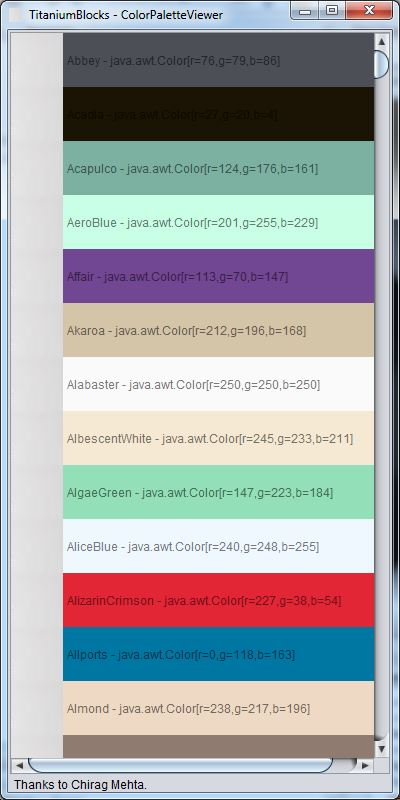
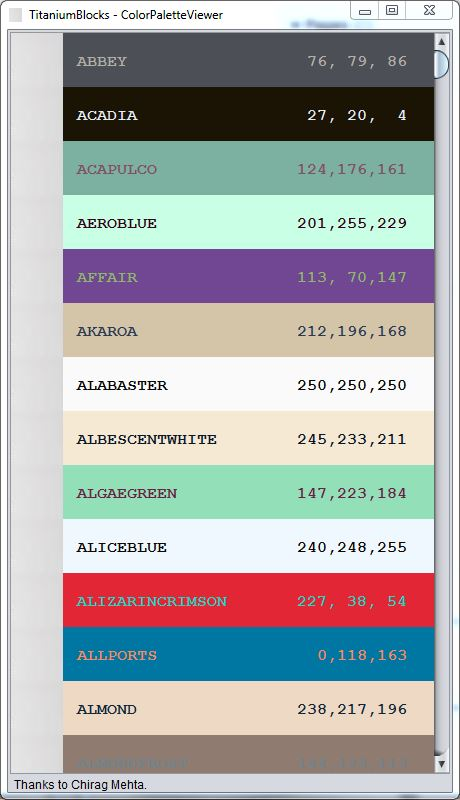
updated Colorviewer

diff --git a/src/us/jaba/titaniumblocks/swing/demos/core/ColorPaletteViewer.java b/src/us/jaba/titaniumblocks/swing/demos/core/ColorPaletteViewer.java
@@ -30,14 +30,11 @@ package us.jaba.titaniumblocks.swing.demos.core;
 import java.awt.BorderLayout;
 import java.awt.Color;
 import java.awt.Dimension;
+import java.awt.Font;
 import java.awt.GridLayout;
 import java.lang.reflect.Field;
 import java.lang.reflect.InvocationTargetException;
-import java.util.ArrayList;
-import java.util.Collections;
 import java.util.List;
-import java.util.Map;
-import java.util.Set;
 import java.util.logging.Level;
 import java.util.logging.Logger;
 import javax.swing.ImageIcon;
@@ -74,7 +71,7 @@ public class ColorPaletteViewer extends javax.swing.JFrame
 
         jScrollPane1.setVerticalScrollBarPolicy(javax.swing.ScrollPaneConstants.VERTICAL_SCROLLBAR_ALWAYS);
 
-        List<Field>al = CoreInfoSupport.getStaticFields(ColorPalette.class);
+        List<Field> al = CoreInfoSupport.getStaticFields(ColorPalette.class);
 //        List<String> al = ColorPalette.getColorNamesByHue();
 //        Set keys = m.keySet();
 //        int len = keys.size();
@@ -84,7 +81,7 @@ public class ColorPaletteViewer extends javax.swing.JFrame
         GridLayout gl = new GridLayout();
         gl.setRows(len);
         list.setLayout(gl);
-        Dimension dim = new Dimension(20, 20);
+        Dimension dim = new Dimension(18, 18);
         for (int i = 0; i < len; i++)
         {
             JPanel panel = new JPanel();
@@ -93,12 +90,13 @@ public class ColorPaletteViewer extends javax.swing.JFrame
 
             Color c = (Color) al.get(i).get(i);
             JLabel jlabel = new JLabel();
-            jlabel.setText(al.get(i).getName()+" - "+c.toString());
+            jlabel.setText(String.format(" %-20s  %3d,%3d,%3d", al.get(i).getName(), c.getRed(), c.getGreen(), c.getBlue()));
             jlabel.setIcon(new ImageIcon(Images.titaniumblocks16x16));
-            jlabel.setForeground(c.darker().darker());
+            jlabel.setForeground(new Color(255 - c.getRed(), 255 - c.getGreen(), 255 - c.getBlue())); //c.darker().darker());
+            jlabel.setFont(new Font(Font.MONOSPACED, Font.BOLD, 16));
             jlabel.setBackground(c);
             panel.setBackground(c);
-            panel.add(jlabel, BorderLayout.CENTER);
+            panel.add(jlabel, BorderLayout.WEST);
 //            System.out.println("     public static final Color "+alk.get(i).replace(" ", "")+" = new Color(" + String.format("%d,%d,%d",c.getRed(),c.getGreen(),c.getBlue() )+");");
             list.add(panel);
         }
@@ -109,7 +107,7 @@ public class ColorPaletteViewer extends javax.swing.JFrame
         jlabel.setText("  Thanks to Chirag Mehta.");
         add(jlabel, BorderLayout.SOUTH);
         this.setIconImage(Images.titaniumblocks16x16);
-        this.setSize(new Dimension(400, 800));
+        this.setSize(new Dimension(460, 800));
     }
 
     private void initComponents()
